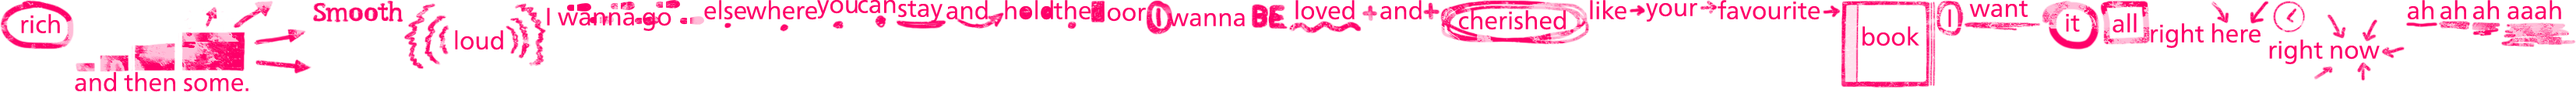
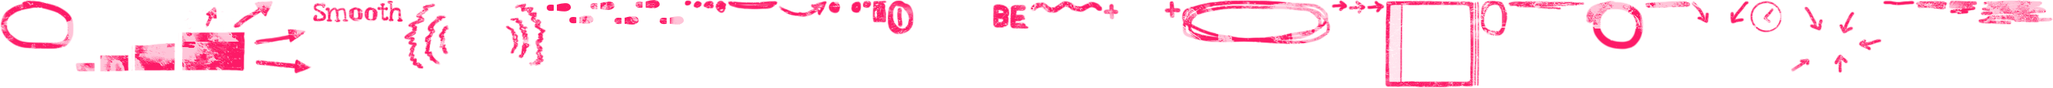
fixed chorus and accounted for video timing

Changed region(s): [[0.0, 0.0, 1.0, 1.0]]

diff --git a/flashlights/script/app.js b/flashlights/script/app.js
@@ -2,17 +2,23 @@
 
 var phrases = [], allTimeElements = document.querySelectorAll('span[data-time]');
 
+/**
+ * Makes sure any time shifts are accounted for
+ */
+function t(time) {
+  return time + 0.9;
+}
 
 var events = {
   appear: {
-    time: 27, active: false, in: function () {
+    time: t(27), active: false, in: function () {
       document.querySelector('.intro').classList.add('lyrics-visible');
     }, out: function () {
       document.querySelector('.intro').classList.remove('lyrics-visible')
     }
   },
   disappear: {
-    time: 163, active: false, in: function () {
+    time: t(163), active: false, in: function () {
       document.querySelector('.intro').classList.add('lyrics-invisible');
       document.querySelector('.intro').classList.remove('lyrics-visible');
     }, out: function (time) {
@@ -24,14 +30,14 @@ var events = {
     }
   },
   switchVerse: {
-    time: 73.5, active: false, in: function () {
+    time: t(73.5), active: false, in: function () {
       document.querySelector('.block').classList.add('second-verse');
     }, out: function () {
       document.querySelector('.block').classList.remove('second-verse');
     }
   },
   blackOut: {
-    time: 73.28, endTime: 75, active: false, in: function () {
+    time: t(73.28), endTime: t(75), active: false, in: function () {
       document.querySelector('.intro').classList.add('blackout');
     }, out: function () {
       document.querySelector('.intro').classList.remove('blackout');
@@ -60,7 +66,7 @@ function handleEvent(time) {
 
 function parseTimeForElements(elements, textName, timeShift) {
   for (var i = 0, span; span = elements[i]; i++) {
-    var time = parseFloat(span.getAttribute('data-time'));
+    var time = t(parseFloat(span.getAttribute('data-time')));
     if (isNaN(time)) break;
 
     if (timeShift) time += timeShift;
@@ -114,8 +120,8 @@ parseTimeForElements(document.querySelectorAll('.block__lyrics--second-verse spa
 var chorusElements = document.querySelectorAll('.block__lyrics--chorus span[data-time]');
 parseTimeForElements(chorusElements, 'chorus', 0);
 // Adding the same lyrics for the two other choruses
-parseTimeForElements(chorusElements, 'chorus', 71.72);
-parseTimeForElements(chorusElements, 'chorus', 89.6);
+parseTimeForElements(chorusElements, 'chorus', t(71.72));
+parseTimeForElements(chorusElements, 'chorus', t(89.6));
 
 function highlightPhrase(time) {
   for (var ii = 0, phrase; phrase = phrases[ii]; ii++) {
@@ -147,7 +153,7 @@ function shakeOnTime(time) {
   }
 }
 
-var shakeTimes = [10.52, 127.04], lastShake = 0;
+var shakeTimes = [t(10.52), t(127.04)], lastShake = 0;
 var introElement = document.querySelector('.intro');
 function shake() {
   if (new Date().getTime() < lastShake + 1000) return;
@@ -203,7 +209,8 @@ function onYouTubeIframeAPIReady() {
     height: '720',
     width: '1280',
     //videoId: 'wDpgJB0iSz0',
-    videoId: 'ph1C-dtR8aM',
+    //videoId: 'ph1C-dtR8aM',
+    videoId: 'sFBFkZYGgcE',
     playerVars: {
       modestbranding: 1,
       showinfo: 0,

diff --git a/flashlights/images/highlights/_production/bin/create_spritemap.dart b/flashlights/images/highlights/_production/bin/create_spritemap.dart
@@ -8,7 +8,7 @@ import 'package:image/image.dart';
 import 'package:logging/logging.dart';
 
 //List images = ['_verse1.png', '_verse2.png', '_chorus.png'];
-List images = ['_verse2.png'];
+List images = ['_chorus.png'];
 
 String highlightsDir = new Directory.fromUri(Platform.script).parent.parent.parent.path;
 String jsonDir = path.join(
